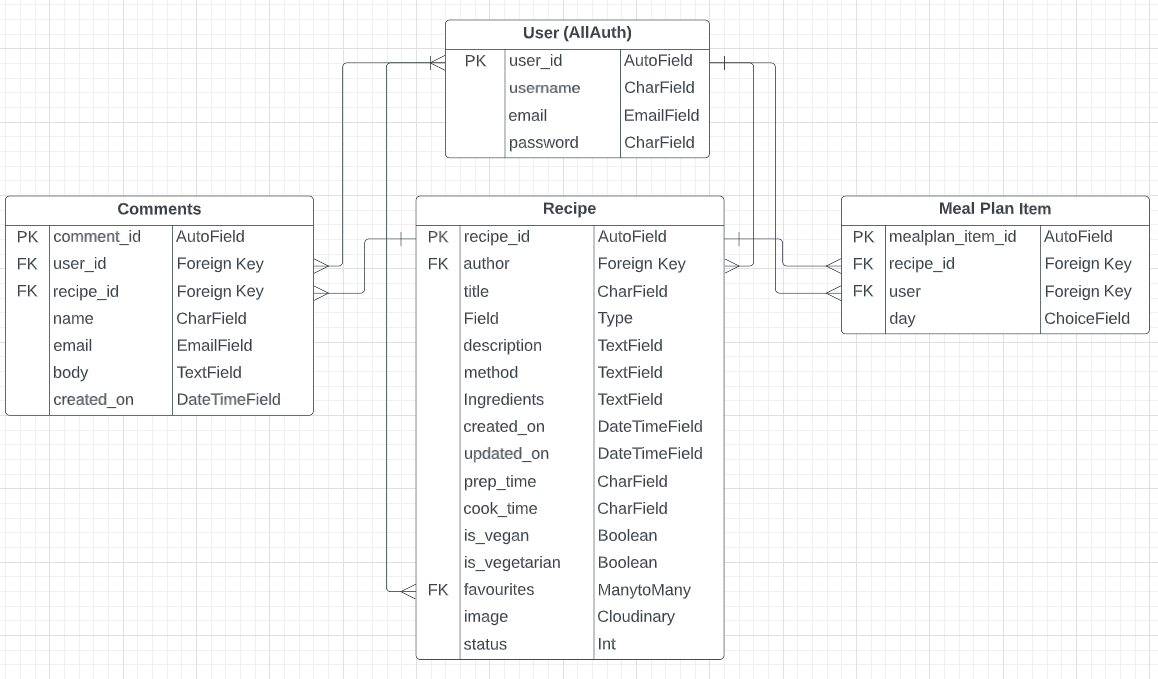
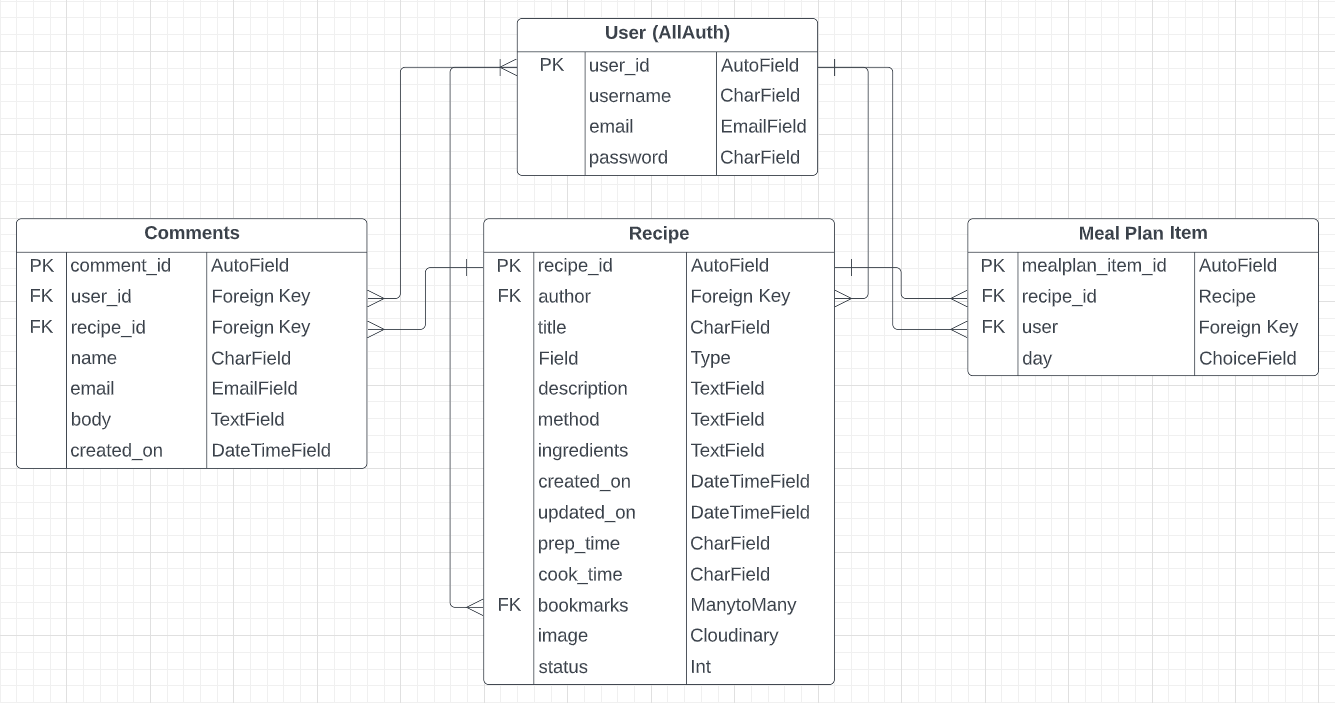
Docs: add security features sections to readme.md

Changed region(s): [[0.0, 0.0, 0.9948, 0.9897], [0.2798, 0.1546, 0.342, 0.1856], [0.3731, 0.1546, 0.4041, 0.1856]]

diff --git a/mealplanner/settings.py b/mealplanner/settings.py
@@ -28,7 +28,7 @@ TEMPLATES_DIR = os.path.join(BASE_DIR, 'templates')
 SECRET_KEY = os.environ.get('SECRET_KEY')
 
 # SECURITY WARNING: don't run with debug turned on in production!
-DEBUG = True
+DEBUG = False
 
 ALLOWED_HOSTS = ['easy-eater.herokuapp.com', 'localhost']
 

diff --git a/README.md b/README.md
@@ -83,9 +83,35 @@ The Montserrat font is the main font used used for the body of the website with 
 ### Wireframes
 
 ### Data Model
-
 I used principles of Object-Oriented Programming throughout this project and Django’s Class-Based Generic Views. 
 
+#### Database Schema
+![Database Schema](docs/readme_images/database_schema.png)
+
+
+### Security Features and Defensive Design
+
+#### User Authentication
+
+- Django's LoginRequiredMixin is used to make sure that any requests to access secure pages by non-authenticated users are redirected to the login page. 
+- Django's UserPassesTestMixin is used to limit access based on certain permissions i.e. to ensure users can only edit/delete recipes and comments for which they are the author. If the user doesn't pass the test they are shown an HTTP 403 Forbidden error.
+
+#### Form Validation
+If incorrect or empty data is added to a form, the form won't submit and a warning will appear to the user informing them what field raised the error. 
+
+#### Database Security
+The database secret key is stored in the env.py file to prevent unwanted connections to the database and this was set up before the first push to Github.
+
+Cross-Site Request Forgery (CSRF) tokens were used on all forms throughout this site.
+
+#### Custom error pages:
+
+Custom Error Pages were created to give the user more information on the error and to provide them with buttons to guide them back to the site.
+
+400 Bad Request - The Easy Eater is unable to handle this request.
+403 Page Forbiden - Looks like you're trying to access forbidden content. Please log out and sign in to the correct account.
+404 Page Not Found - The page you're looking for doesn't exist.
+500 Server Error - The Easy Eater is currently unable to handle this request
 
 ## Features
 
